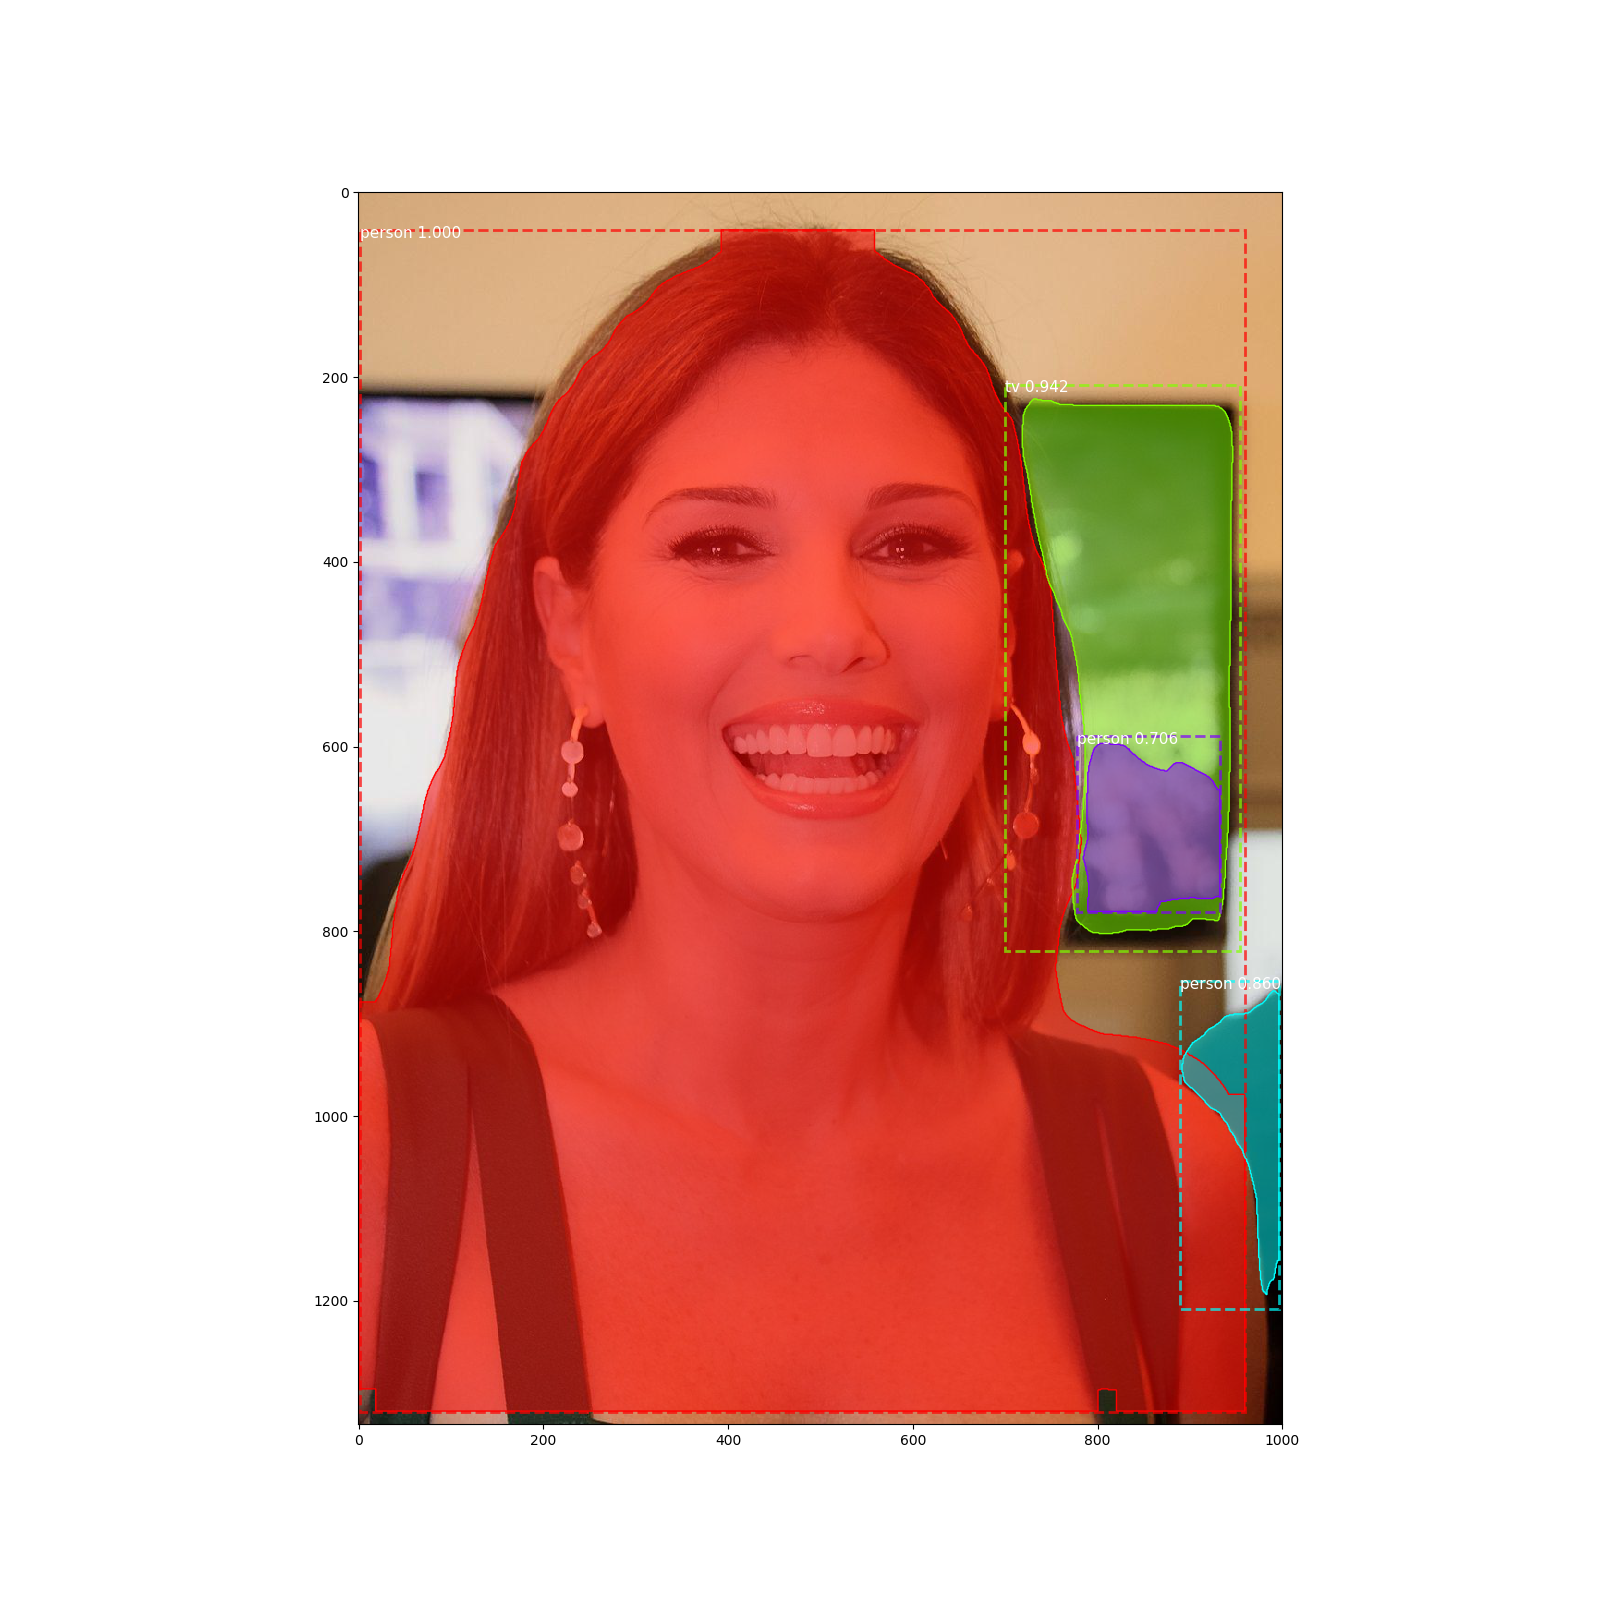
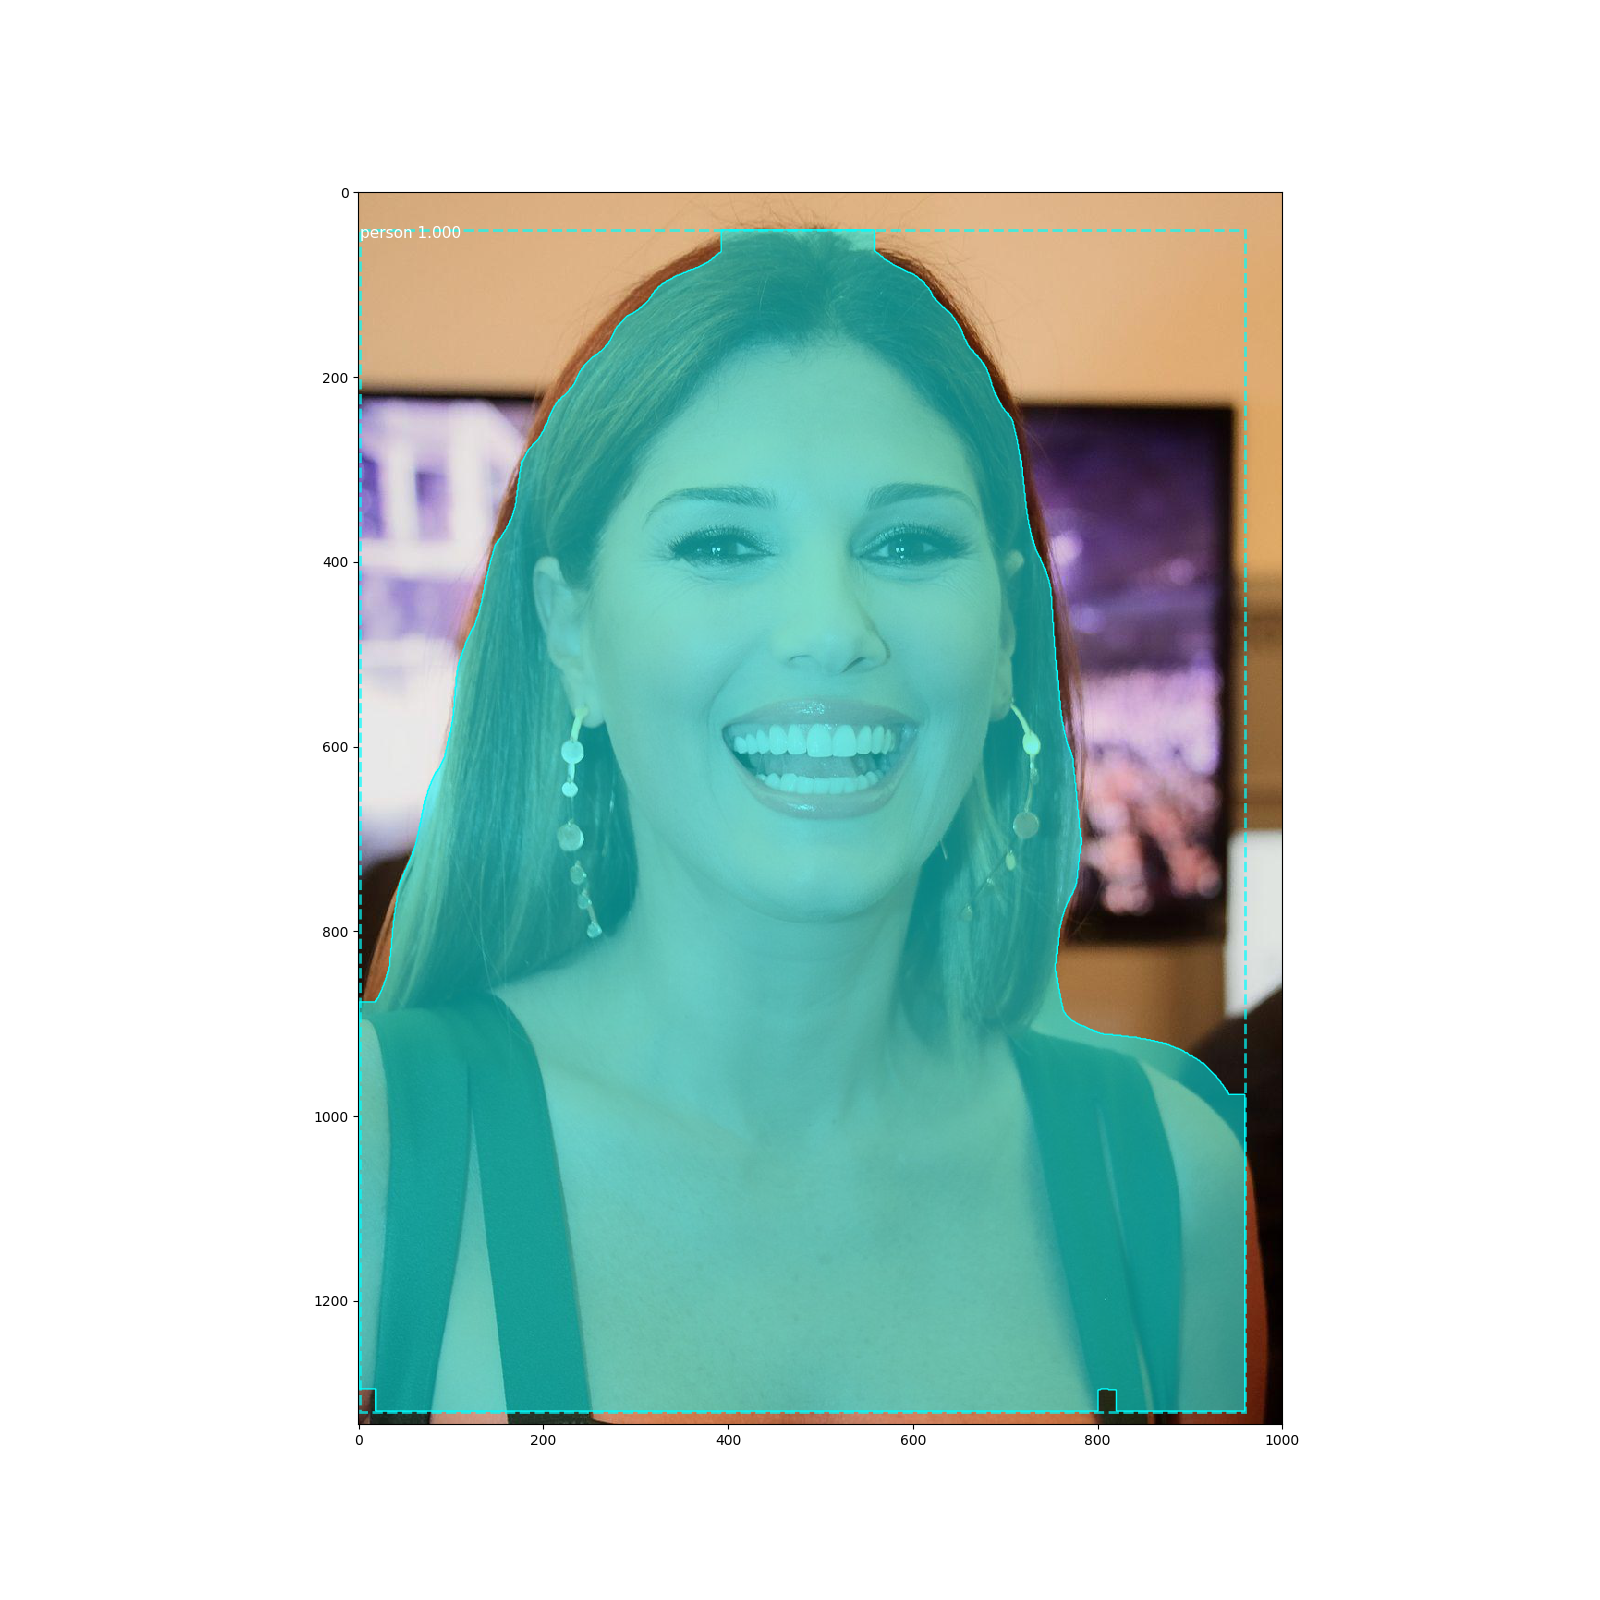
modified:   mask.png 	modified:   plot.png

diff --git a/visualize.py b/visualize.py
@@ -76,9 +76,9 @@ def apply_mask(image, mask, color, alpha=0.5):
                                   (1 - alpha) + alpha * color[c] * 255,
                                   image[:, :, c])
     return image
+                                               
 
-
-def display_instances(image, boxes, masks, class_ids, class_names,
+def display_instances(image, i, boxes, masks, class_ids, class_names,
                       scores=None, title="",
                       figsize=(16, 16), fig=None):
     """
@@ -109,43 +109,42 @@ def display_instances(image, boxes, masks, class_ids, class_names,
     #fig.set_label(title)
 
     masked_image = image.astype(np.uint32).copy()
-    for i in range(N):
-        color = colors[i]
+#    for i in range(N): 
+    color = colors[i]
 
         # Bounding box
-        if not np.any(boxes[i]):
+#    if not np.any(boxes[i]):
             # Skip this instance. Has no bbox. Likely lost in image cropping.
-            continue
-        y1, x1, y2, x2 = boxes[i]
-        p = patches.Rectangle((x1, y1), x2 - x1, y2 - y1, linewidth=2,
+#       continue
+    y1, x1, y2, x2 = boxes[i]
+    p = patches.Rectangle((x1, y1), x2 - x1, y2 - y1, linewidth=2,
                               alpha=0.7, linestyle="dashed",
                               edgecolor=color, facecolor='none')
-        fig.add_patch(p)
+    fig.add_patch(p)
 
         # Label
-        class_id = class_ids[i]
-        score = scores[i] if scores is not None else None
-        label = class_names[class_id]
-        x = random.randint(x1, (x1 + x2) // 2)
-        caption = "{} {:.3f}".format(label, score) if score else label
-        fig.text(x1, y1 + 8, caption,
+    class_id = class_ids[i]
+    score = scores[i] if scores is not None else None
+    label = class_names[class_id]
+    x = random.randint(x1, (x1 + x2) // 2)
+    caption = "{} {:.3f}".format(label, score) if score else label
+    fig.text(x1, y1 + 8, caption,
                 color='w', size=11, backgroundcolor="none")
 
         # Mask
-        mask = masks[:, :, i]
-        masked_image = apply_mask(masked_image, mask, color)
+    mask = masks[:, :, i]
+    masked_image = apply_mask(masked_image, mask, color)
 
         # Mask Polygon
         # Pad to ensure proper polygons for masks that touch image edges.
-        padded_mask = np.zeros(
-            (mask.shape[0] + 2, mask.shape[1] + 2), dtype=np.uint8)
-        padded_mask[1:-1, 1:-1] = mask
-        contours = find_contours(padded_mask, 0.5)
-        for verts in contours:
+    padded_mask = np.zeros( (mask.shape[0] + 2, mask.shape[1] + 2), dtype=np.uint8)
+    padded_mask[1:-1, 1:-1] = mask
+    contours = find_contours(padded_mask, 0.5)
+    for verts in contours:
             # Subtract the padding and flip (y, x) to (x, y)
-            verts = np.fliplr(verts) - 1
-            p = Polygon(verts, facecolor="none", edgecolor=color)
-            fig.add_patch(p)
+        verts = np.fliplr(verts) - 1
+        p = Polygon(verts, facecolor="none", edgecolor=color)
+        fig.add_patch(p)
     fig.imshow(masked_image.astype(np.uint8))
     f.savefig('plot.png')
     scipy.misc.toimage(masked_image).save('mask.png')

diff --git a/demo.py b/demo.py
@@ -68,7 +68,16 @@ image = skimage.io.imread(os.path.join(IMAGE_DIR, '111.jpg'))
 # Run detection
 results = model.detect([image], verbose=1)
 
+# Find 'person' only
+id_person = class_names.index('person')
+print(id_person)
 # Visualize results
 r = results[0]
-visualize.display_instances(image, r['rois'], r['masks'], r['class_ids'], 
+idx = r['class_ids'].tolist().index(1)
+print(idx)
+print(r['rois'].shape)
+print(r['masks'].shape)
+print(r['masks'].shape[-1])
+print(r['class_ids'].shape)
+visualize.display_instances(image, idx,  r['rois'], r['masks'], r['class_ids'], 
                             class_names, r['scores'])
